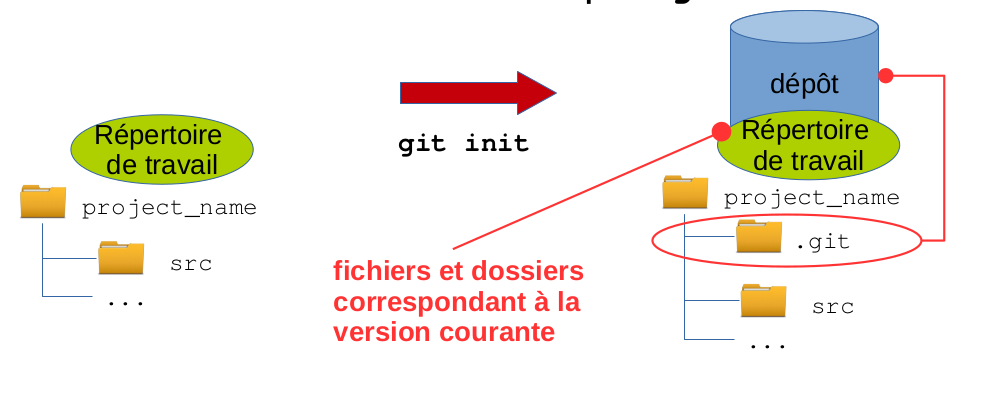
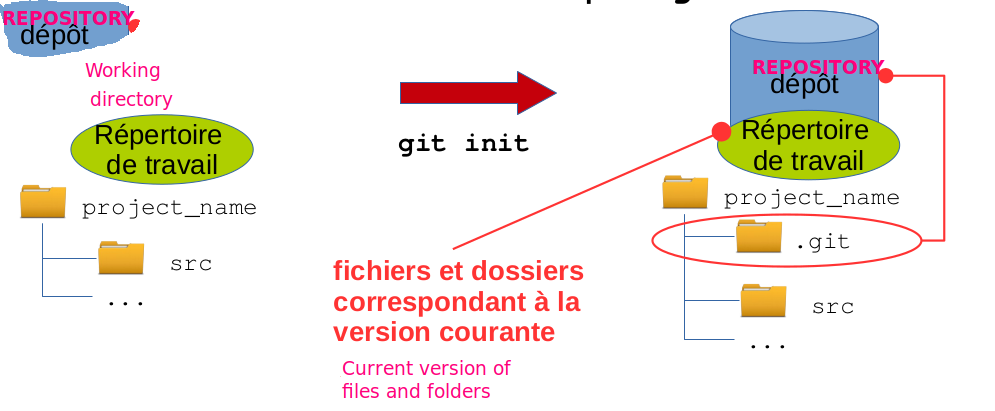
Changes in presentation

Changed region(s): [[0.0, 0.0, 0.1869, 0.2628], [0.3427, 0.8759, 0.5296, 0.9927], [0.7477, 0.146, 0.9035, 0.2044]]

diff --git a/cours-git.md b/cours-git.md
@@ -1,6 +1,8 @@
-% Introduction to Git \[git\]
-% Bruno Bonté (Slides from Robin Passama)
-% MISSABMS 2020
+---
+title: Introduction to Git \[git\]
+author: Bruno Bonté (Slides from Robin Passama)
+date: MISSABMS 2020
+...
 
 # Introduction
 
@@ -9,7 +11,7 @@
 - A Version Control System (keeping track of changes)
 - Initialy developped by Linus Torvalds to developp Linux kernel
 - Dedicated to collaborative work
-	* Each developper has his repository
+	* Distributed: Each developper has his repository
 	* One may create development branches
 
 ## Why using Git
@@ -18,8 +20,16 @@
 - knowing where you are and avoid having 20 times the same file: modelV1.pcl, modelV2.pcl, modelV3.pcl..
 - Share models and changes
 - Find a specific change performed long time ago
+- ...
 
-# Principle, Basics concepts and basic commands
+# Principle, Basics concepts and basic commands
+
+---
+## Repository
+- It is a floder containing the whole change history of the project folder
+
+![](images/initiation GIT_IUT_eng.pdf)
+
 
 # Example of this presentation git repository
 
